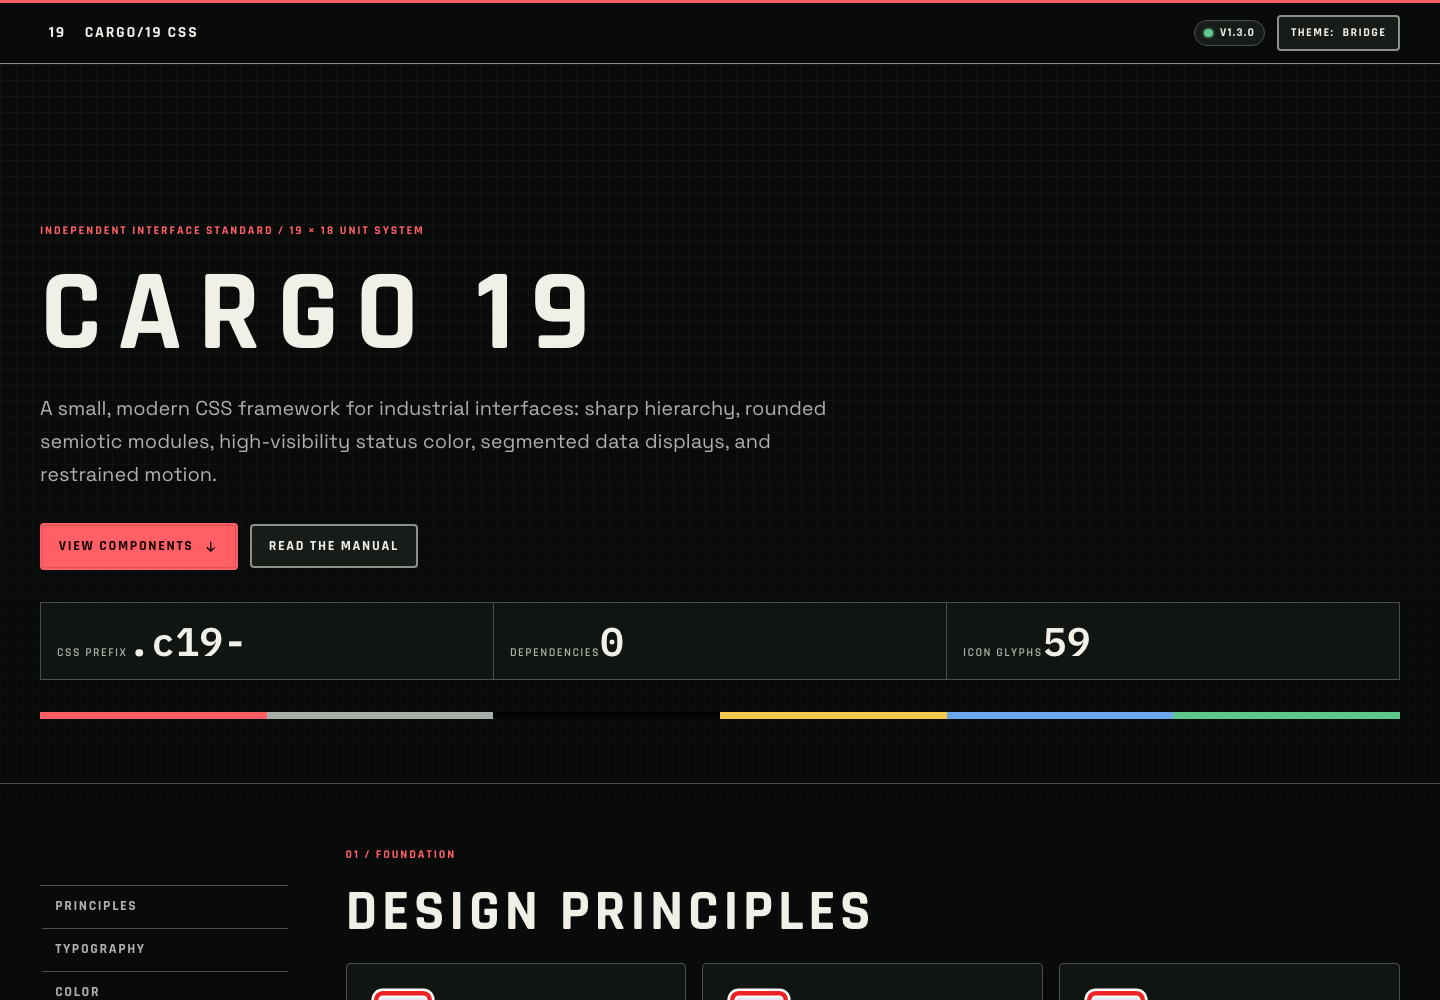
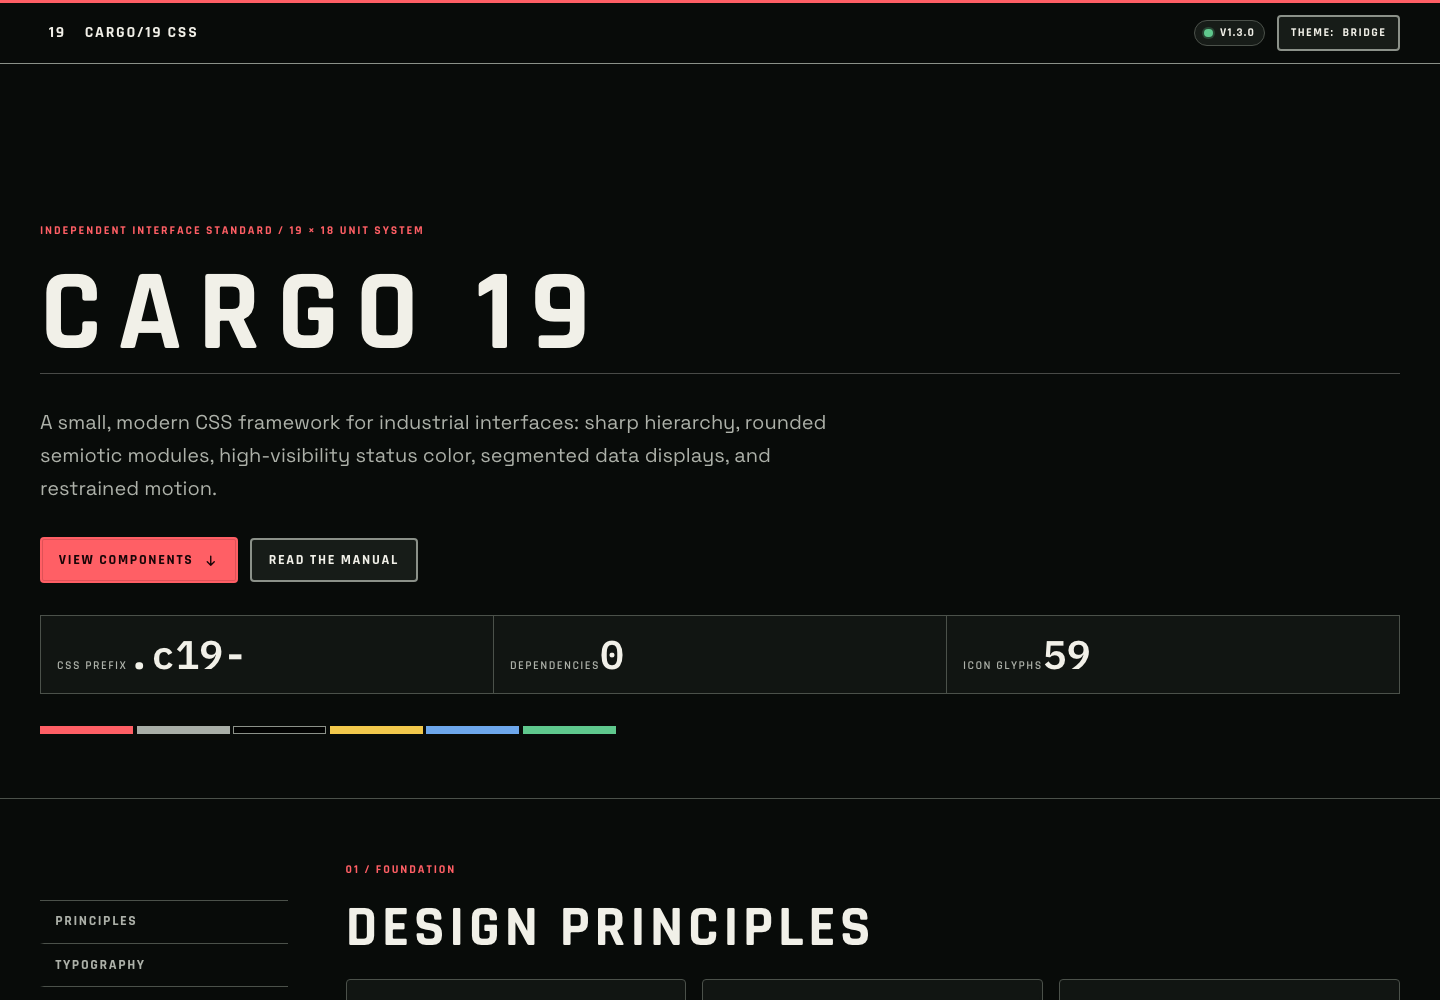
style: tighten landing palette rail

diff --git a/src/50-components.css b/src/50-components.css
@@ -1934,7 +1934,13 @@
   .c19-showcase-color-strip {
     display: grid;
     grid-template-columns: repeat(6, 1fr);
-    block-size: 0.4rem;
+    gap: 0.2rem;
+    inline-size: min(100%, 36rem);
+    block-size: 0.5rem;
+  }
+
+  .c19-showcase-color-strip > :nth-child(3) {
+    box-shadow: inset 0 0 0 1px var(--c19-border-strong);
   }
 
   @media (max-width: 58rem) {

diff --git a/docs/changelog.html b/docs/changelog.html
@@ -129,7 +129,7 @@
   <div class="c19-stack c19-gap-4">
     <article class="c19-panel c19-accent-red"><header class="c19-panel__header"><h3 class="c19-panel__title">Icon system</h3><span class="c19-badge c19-badge--red">Rebuilt</span></header><div class="c19-panel__body c19-prose"><ul><li>Expanded to 39 equipment signs and 20 interface glyphs.</li><li>Standardized every export on a 19 × 18 viewBox.</li><li>Introduced one frame, one optical plate, one fixed seven-color palette, and generated individual light/dark exports.</li><li>Replaced mixed line weights and incompatible pictogram styles.</li></ul></div></article>
     <article class="c19-panel c19-accent-blue"><header class="c19-panel__header"><h3 class="c19-panel__title">Documentation</h3><span class="c19-badge c19-badge--blue">Dogfooded</span></header><div class="c19-panel__body c19-prose"><ul><li>Rebuilt all visual documentation with the public framework CSS and JavaScript only.</li><li>Added a common desktop rail, mobile navigation panel, theme persistence, code copy, and searchable icon catalog.</li><li>Embedded the generated icon sprite in every manual and example page for Safari-safe direct-file browsing.</li><li>Added live specimens for popover menus, compound inputs, inline loading, component properties, typography, and signal-acquisition motion.</li></ul></div></article>
-    <article class="c19-panel c19-accent-green"><header class="c19-panel__header"><h3 class="c19-panel__title">Framework and quality</h3><span class="c19-badge c19-badge--green">Consolidated</span></header><div class="c19-panel__body c19-prose"><ul><li>Restored the 1.0 type roles, palette, rounded surfaces, and long-form showcase.</li><li>Replaced atmospheric gradients with flat surfaces, hard signal bands, and solid loading motion.</li><li>Added native popover menus, compound input groups, spinners, and inline loading states.</li><li>Added focused component custom properties and the one-shot signal-acquisition title cue.</li><li>Retained deterministic generators and expanded release validation.</li></ul></div></article>
+    <article class="c19-panel c19-accent-green"><header class="c19-panel__header"><h3 class="c19-panel__title">Framework and quality</h3><span class="c19-badge c19-badge--green">Consolidated</span></header><div class="c19-panel__body c19-prose"><ul><li>Restored the 1.0 type roles, palette, rounded surfaces, and long-form showcase.</li><li>Replaced atmospheric gradients with flat surfaces, hard signal bands, and solid loading motion.</li><li>Tightened the landing-page palette rail and bounded the vacuum-black swatch.</li><li>Added native popover menus, compound input groups, spinners, and inline loading states.</li><li>Added focused component custom properties and the one-shot signal-acquisition title cue.</li><li>Retained deterministic generators and expanded release validation.</li></ul></div></article>
   </div>
 </section>
 <section class="c19-doc-section">

diff --git a/CHANGELOG.md b/CHANGELOG.md
@@ -17,6 +17,7 @@
 - Expanded the manual with live component examples, a component-variable reference, richer typography specimens, and corrected light-specimen token contrast.
 - Embedded the complete icon sprite in generated manual and example pages so Safari can render every glyph when the package is opened directly from disk.
 - Replaced atmospheric gradients with flat surfaces, hard signal bands, and solid loading motion.
+- Tightened the landing-page palette rail and bounded the vacuum-black swatch so every specified color remains visible.
 
 ## 1.2.0 — 2026-07-21
 